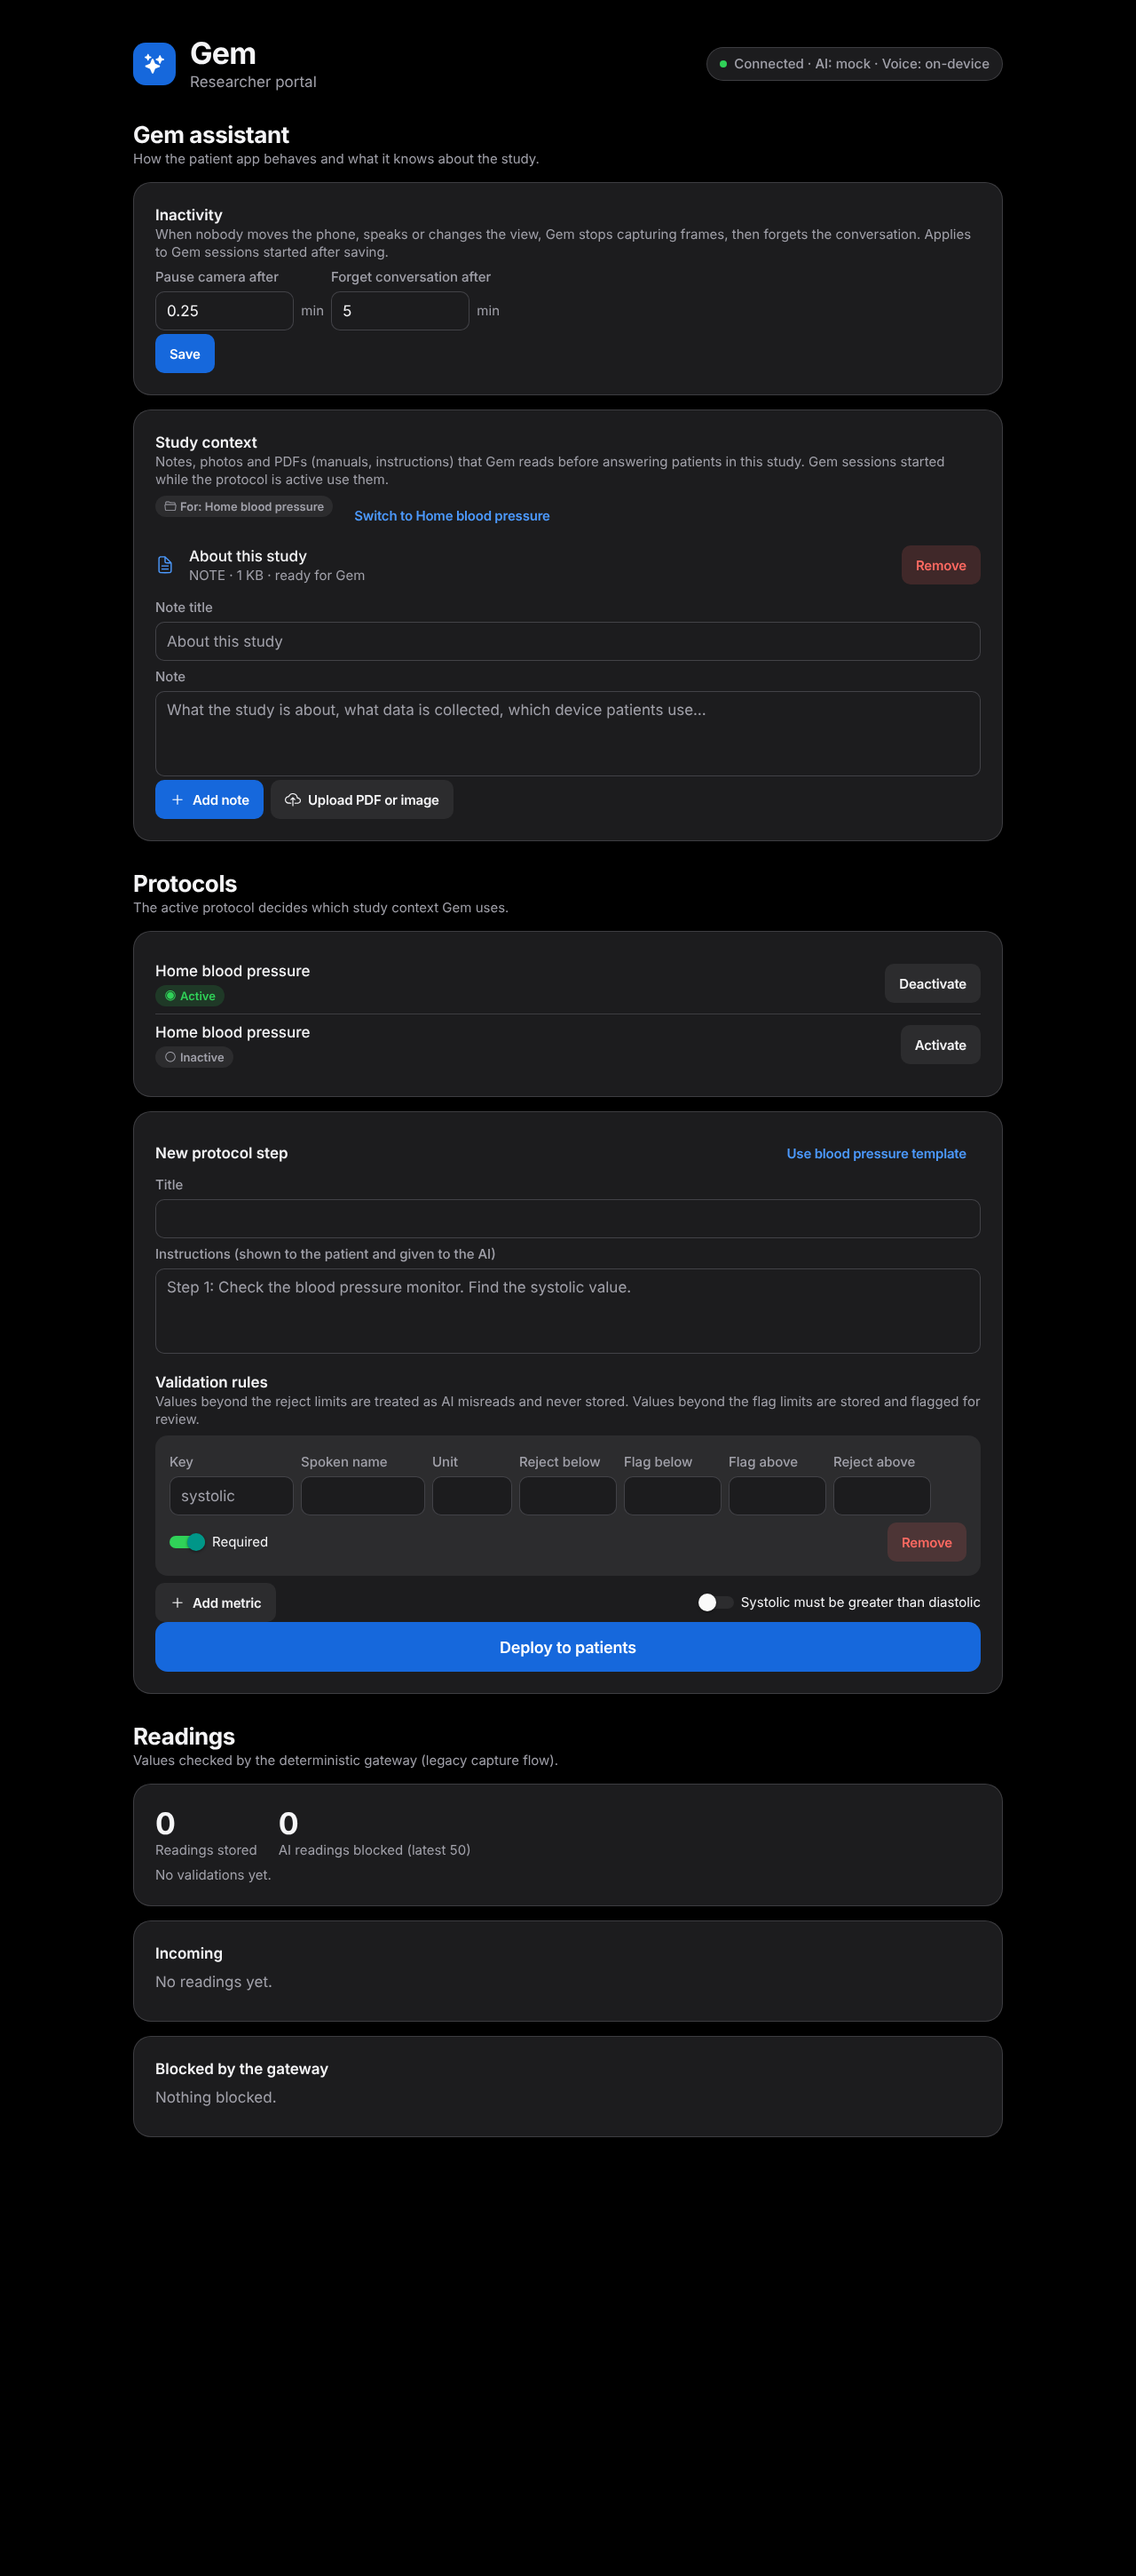
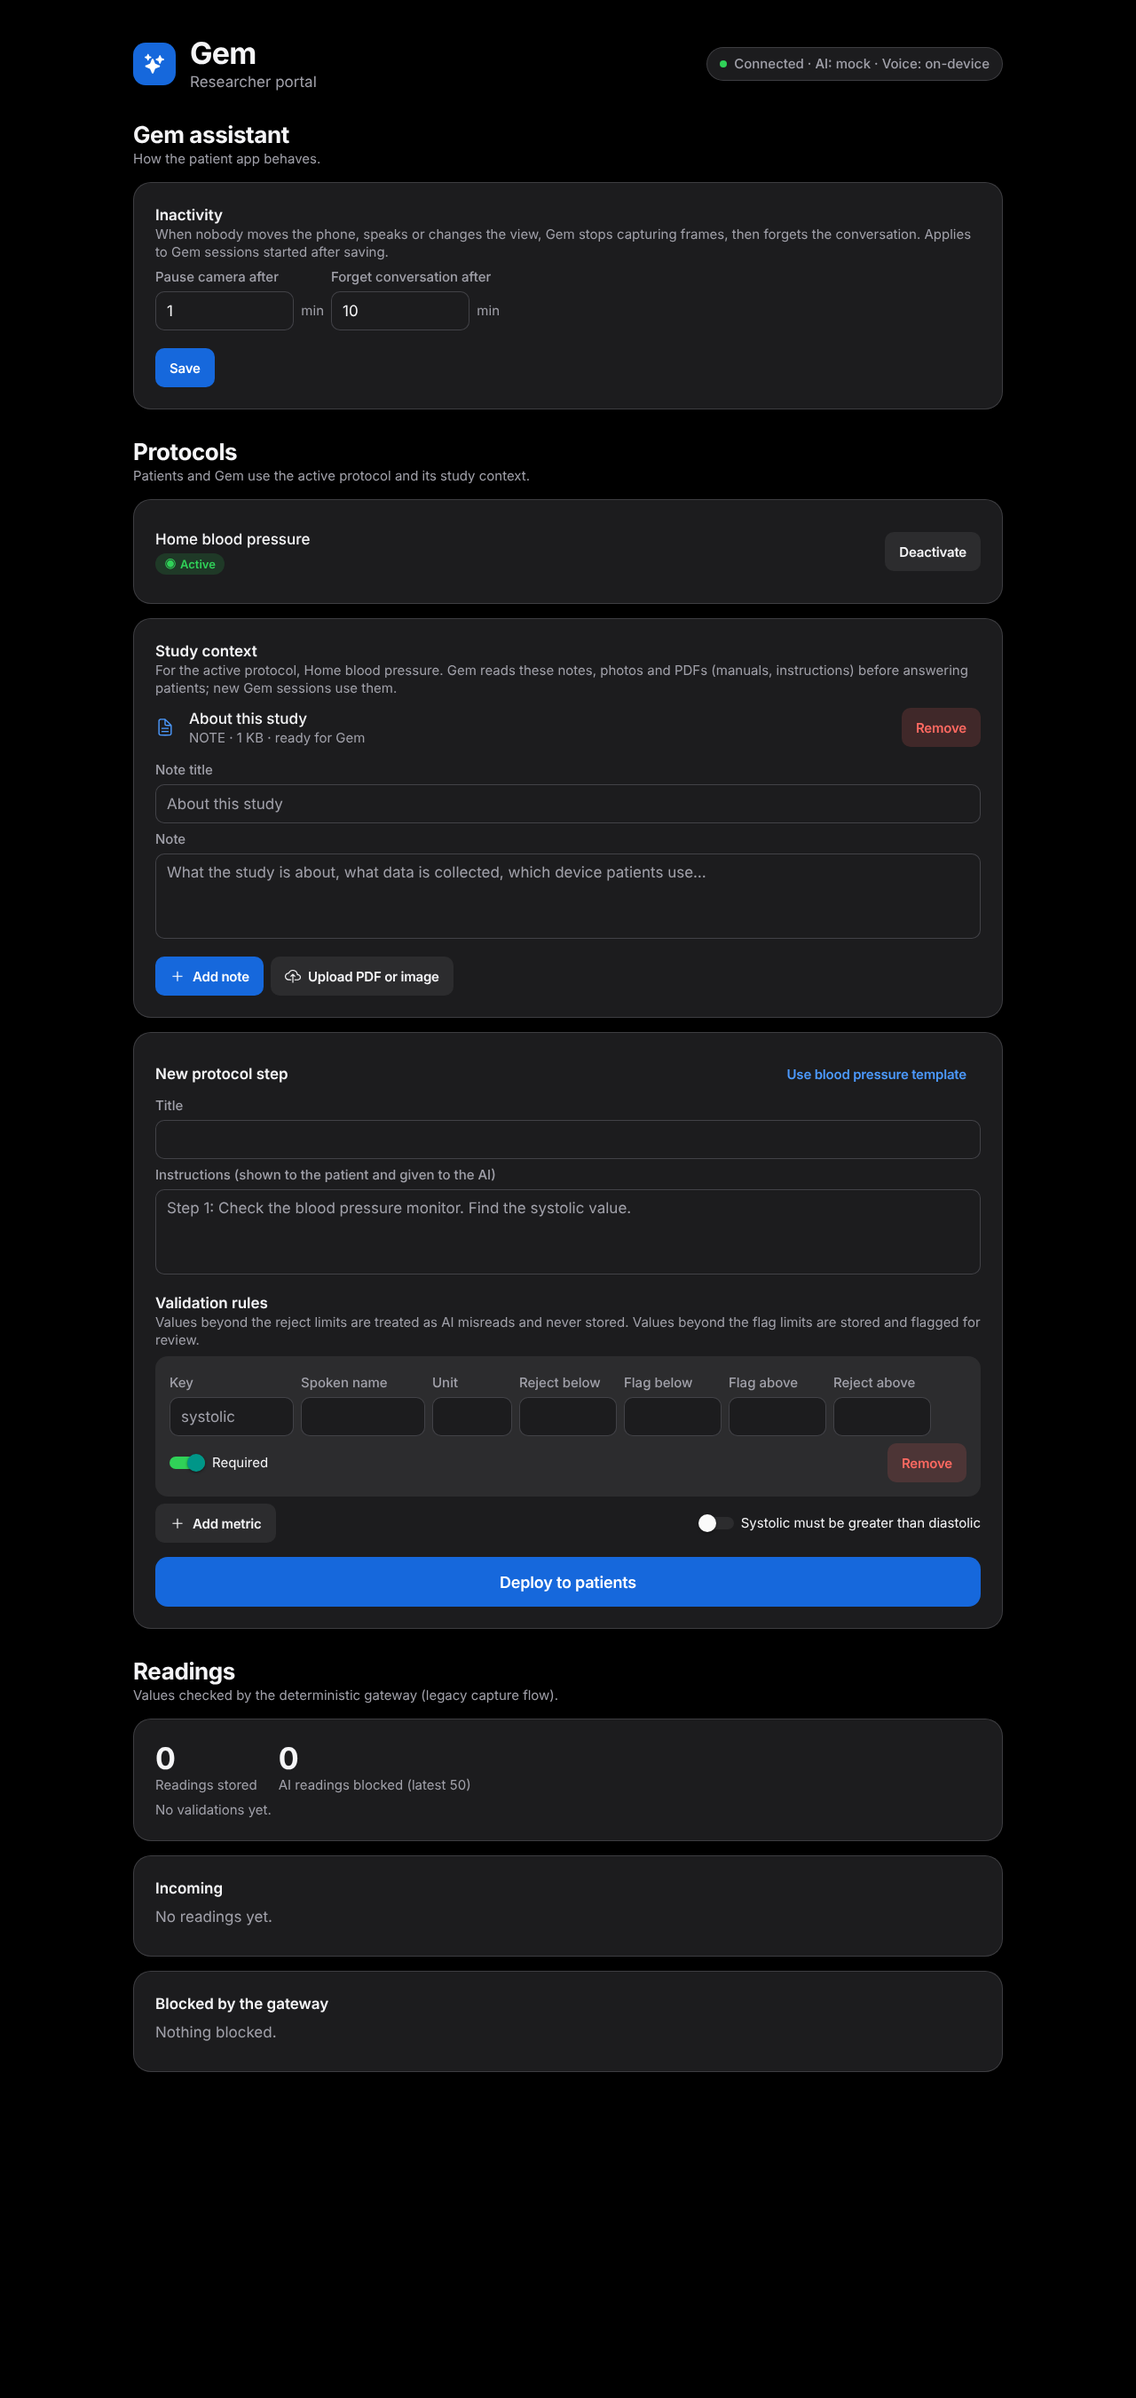
style: tie study context to the active protocol and space out portal actions

Changed region(s): [[0.0938, 0.4667, 0.9062, 0.8711], [0.0938, 0.0, 0.9062, 0.4356], [0.625, 0.0, 0.875, 0.0311]]

diff --git a/mobile/src/screens/portal/PortalScreen.tsx b/mobile/src/screens/portal/PortalScreen.tsx
@@ -69,7 +69,7 @@ export function PortalScreen() {
         </View>
 
         {/* ---------------- Gem assistant ---------------- */}
-        <SectionHeader title="Gem assistant" subtitle="How the patient app behaves and what it knows about the study." />
+        <SectionHeader title="Gem assistant" subtitle="How the patient app behaves." />
 
         <Card testID="portal-settings">
           <AppText variant="body" weight="600">
@@ -99,7 +99,7 @@ export function PortalScreen() {
               width={190}
             />
           </Row>
-          <Row>
+          <Row style={styles.actions}>
             <Button
               testID="portal-settings-save"
               label="Save"
@@ -120,31 +120,54 @@ export function PortalScreen() {
           </Row>
         </Card>
 
+        {/* ---------------- Protocols ---------------- */}
+        <SectionHeader title="Protocols" subtitle="Patients and Gem use the active protocol and its study context." />
+
+        <Card testID="portal-protocols">
+          {portal.protocols.length === 0 ? (
+            <AppText tone="muted" testID="portal-protocols-empty" style={styles.empty}>
+              No protocols yet.
+            </AppText>
+          ) : null}
+          {portal.protocols.map((p, i) => (
+            <View key={p.protocol_id}>
+              {i > 0 ? <Separator /> : null}
+              <View testID={`portal-protocol-${p.protocol_id}`} style={styles.listRow}>
+                <View style={{ flex: 1, gap: 4 }}>
+                  <AppText weight="500">{p.title}</AppText>
+                  <Pill label={p.is_active ? 'Active' : 'Inactive'} icon={p.is_active ? 'radio-button-on' : 'radio-button-off'} tone={p.is_active ? 'success' : 'neutral'} />
+                </View>
+                {p.is_active ? (
+                  <Button
+                    testID={`portal-deactivate-${p.protocol_id}`}
+                    label="Deactivate"
+                    variant="secondary"
+                    compact
+                    onPress={() => portal.deactivate(p.protocol_id)}
+                  />
+                ) : (
+                  <Button
+                    testID={`portal-activate-${p.protocol_id}`}
+                    label="Activate"
+                    variant="secondary"
+                    compact
+                    onPress={() => portal.activate(p.protocol_id)}
+                  />
+                )}
+              </View>
+            </View>
+          ))}
+        </Card>
+
         <Card testID="portal-documents">
           <AppText variant="body" weight="600">
             Study context
           </AppText>
-          <AppText variant="small" tone="muted">
-            Notes, photos and PDFs (manuals, instructions) that Gem reads before answering patients in this study. Gem
-            sessions started while the protocol is active use them.
-          </AppText>
           {portal.documentsProtocol ? (
             <>
-              <Row style={{ marginTop: theme.space.sm }}>
-                <Pill icon="folder-open-outline" label={`For: ${portal.documentsProtocol.title}`} testID="portal-documents-protocol" />
-                {portal.protocols
-                  .filter((p) => p.protocol_id !== portal.documentsProtocol?.protocol_id)
-                  .map((p) => (
-                    <Button
-                      key={p.protocol_id}
-                      testID={`portal-documents-select-${p.protocol_id}`}
-                      label={`Switch to ${p.title}`}
-                      variant="plain"
-                      compact
-                      onPress={() => portal.selectDocumentsProtocol(p.protocol_id)}
-                    />
-                  ))}
-              </Row>
+              <AppText variant="small" tone="muted" testID="portal-documents-protocol">
+                {`For the active protocol, ${portal.documentsProtocol.title}. Gem reads these notes, photos and PDFs (manuals, instructions) before answering patients; new Gem sessions use them.`}
+              </AppText>
               <View style={styles.list}>
                 {portal.documents.length === 0 ? (
                   <AppText tone="muted" testID="portal-documents-empty" style={styles.empty}>
@@ -195,7 +218,7 @@ export function PortalScreen() {
                 multiline
                 placeholder="What the study is about, what data is collected, which device patients use…"
               />
-              <Row>
+              <Row style={styles.actions}>
                 <Button testID="portal-note-add" label="Add note" icon="add" compact onPress={portal.addNote} loading={portal.documentsBusy} />
                 <Button
                   testID="portal-upload-file"
@@ -210,7 +233,8 @@ export function PortalScreen() {
             </>
           ) : (
             <AppText tone="muted" testID="portal-documents-no-protocol" style={styles.empty}>
-              Deploy a protocol first, then add study documents to it.
+              Activate a protocol to add study documents. Gem reads them (notes, photos, PDF manuals) before
+              answering patients.
             </AppText>
           )}
           {portal.documentsError ? (
@@ -218,45 +242,6 @@ export function PortalScreen() {
               {portal.documentsError}
             </AppText>
           ) : null}
-        </Card>
-
-        {/* ---------------- Protocols ---------------- */}
-        <SectionHeader title="Protocols" subtitle="The active protocol decides which study context Gem uses." />
-
-        <Card testID="portal-protocols">
-          {portal.protocols.length === 0 ? (
-            <AppText tone="muted" testID="portal-protocols-empty" style={styles.empty}>
-              No protocols yet.
-            </AppText>
-          ) : null}
-          {portal.protocols.map((p, i) => (
-            <View key={p.protocol_id}>
-              {i > 0 ? <Separator /> : null}
-              <View testID={`portal-protocol-${p.protocol_id}`} style={styles.listRow}>
-                <View style={{ flex: 1, gap: 4 }}>
-                  <AppText weight="500">{p.title}</AppText>
-                  <Pill label={p.is_active ? 'Active' : 'Inactive'} icon={p.is_active ? 'radio-button-on' : 'radio-button-off'} tone={p.is_active ? 'success' : 'neutral'} />
-                </View>
-                {p.is_active ? (
-                  <Button
-                    testID={`portal-deactivate-${p.protocol_id}`}
-                    label="Deactivate"
-                    variant="secondary"
-                    compact
-                    onPress={() => portal.deactivate(p.protocol_id)}
-                  />
-                ) : (
-                  <Button
-                    testID={`portal-activate-${p.protocol_id}`}
-                    label="Activate"
-                    variant="secondary"
-                    compact
-                    onPress={() => portal.activate(p.protocol_id)}
-                  />
-                )}
-              </View>
-            </View>
-          ))}
         </Card>
 
         <Card testID="portal-editor">
@@ -335,7 +320,7 @@ export function PortalScreen() {
               {portal.deployMessage}
             </AppText>
           ) : null}
-          <Button testID="portal-deploy" label="Deploy to patients" onPress={portal.deploy} loading={portal.deploying} />
+          <Button testID="portal-deploy" label="Deploy to patients" onPress={portal.deploy} loading={portal.deploying} style={styles.actions} />
         </Card>
 
         {/* ---------------- Gateway ---------------- */}
@@ -454,6 +439,8 @@ const styles = StyleSheet.create({
   connectionDot: { width: 8, height: 8, borderRadius: 4 },
   fields: { alignItems: 'flex-end', marginTop: theme.space.xs },
   list: { marginVertical: theme.space.xs },
+  /** The closing (blue) action of a card gets room above it. */
+  actions: { marginTop: theme.space.md },
   listRow: { flexDirection: 'row', alignItems: 'center', gap: theme.space.md, paddingVertical: theme.space.sm },
   separator: { height: StyleSheet.hairlineWidth },
   empty: { paddingVertical: theme.space.sm },

diff --git a/mobile/src/hooks/usePortal.ts b/mobile/src/hooks/usePortal.ts
@@ -35,7 +35,7 @@ export interface PortalController {
   setPurgeMinutes: (v: string) => void;
   saveSettings: () => void;
 
-  /** Protocol whose study documents are shown (defaults to the active one). */
+  /** The active protocol: study documents always belong to it (null when none is active). */
   documentsProtocol: Protocol | null;
   documents: StudyDocument[];
   noteTitle: string;
@@ -44,7 +44,6 @@ export interface PortalController {
   documentsError: string | null;
   setNoteTitle: (v: string) => void;
   setNoteText: (v: string) => void;
-  selectDocumentsProtocol: (protocolId: string) => void;
   addNote: () => void;
   uploadFile: () => void;
   deleteDocument: (docId: string) => void;
@@ -85,7 +84,6 @@ export function usePortal(): PortalController {
   const [deploying, setDeploying] = useState(false);
   const [deployMessage, setDeployMessage] = useState<string | null>(null);
   const mounted = useRef(true);
-  const [selectedDocsProtocol, setSelectedDocsProtocol] = useState<string | null>(null);
   const [idleMinutes, setIdleMinutes] = useState('');
   const [purgeMinutes, setPurgeMinutes] = useState('');
   const [settingsSaving, setSettingsSaving] = useState(false);
@@ -108,8 +106,7 @@ export function usePortal(): PortalController {
   const [documentsBusy, setDocumentsBusy] = useState(false);
   const [documentsError, setDocumentsError] = useState<string | null>(null);
 
-  const documentsProtocol =
-    protocols.find((p) => p.protocol_id === selectedDocsProtocol) ?? protocols.find((p) => p.is_active) ?? null;
+  const documentsProtocol = protocols.find((p) => p.is_active) ?? null;
   const docsProtocolId = documentsProtocol?.protocol_id ?? null;
 
   const loadDocuments = useCallback((protocolId: string | null) => {
@@ -268,7 +265,6 @@ export function usePortal(): PortalController {
     documentsError,
     setNoteTitle,
     setNoteText,
-    selectDocumentsProtocol: setSelectedDocsProtocol,
     addNote: () => {
       if (!noteTitle.trim() || !noteText.trim()) {
         setDocumentsError('Give the note a title and some text.');

diff --git a/mobile/src/__tests__/PortalScreen.contract.test.tsx b/mobile/src/__tests__/PortalScreen.contract.test.tsx
@@ -46,7 +46,6 @@ function controller(overrides: Partial<PortalController> = {}): PortalController
     documentsError: null,
     setNoteTitle: jest.fn(),
     setNoteText: jest.fn(),
-    selectDocumentsProtocol: jest.fn(),
     addNote: jest.fn(),
     uploadFile: jest.fn(),
     deleteDocument: jest.fn(),
@@ -136,7 +135,7 @@ describe('PortalScreen contract', () => {
     expect(screen.getByTestId('portal-latency')).toHaveTextContent(/p95 3 µs/);
   });
 
-  it('study documents: list, add note, upload, remove, switch protocol', async () => {
+  it('study documents: list, add note, upload, remove', async () => {
     const ctl = await renderWith();
     expect(screen.getByTestId('portal-documents-protocol')).toHaveTextContent(/Home blood pressure/);
     expect(screen.getByTestId('portal-document-d-1')).toHaveTextContent(/About the study/);
@@ -146,13 +145,13 @@ describe('PortalScreen contract', () => {
     await fireEvent.press(screen.getByTestId('portal-note-add'));
     await fireEvent.press(screen.getByTestId('portal-upload-file'));
     await fireEvent.press(screen.getByTestId('portal-document-delete-d-2'));
-    await fireEvent.press(screen.getByTestId('portal-documents-select-p-0'));
     expect(ctl.setNoteTitle).toHaveBeenCalledWith('Device');
     expect(ctl.setNoteText).toHaveBeenCalledWith('Omron M7');
     expect(ctl.addNote).toHaveBeenCalled();
     expect(ctl.uploadFile).toHaveBeenCalled();
     expect(ctl.deleteDocument).toHaveBeenCalledWith('d-2');
-    expect(ctl.selectDocumentsProtocol).toHaveBeenCalledWith('p-0');
+    // Documents always belong to the active protocol: no separate protocol switcher.
+    expect(screen.queryByTestId('portal-documents-select-p-0')).toBeNull();
   });
 
   it('study documents: empty, error, and no-protocol states', async () => {

diff --git a/mobile/src/__tests__/usePortalDocuments.test.tsx b/mobile/src/__tests__/usePortalDocuments.test.tsx
@@ -103,6 +103,15 @@ describe('usePortal study documents', () => {
   });
 });
 
+it('documents follow the active protocol; none when no protocol is active', async () => {
+  const { protocol } = jest.requireActual('../testing/fixtures');
+  (api.listProtocols as jest.Mock).mockResolvedValue([{ ...protocol, is_active: false }]);
+  const hook = await renderHook(() => usePortal());
+  await waitFor(() => expect(hook.result.current.protocols).toHaveLength(1));
+  expect(hook.result.current.documentsProtocol).toBeNull();
+  (api.listProtocols as jest.Mock).mockResolvedValue([protocol]);
+});
+
 describe('usePortal Gem inactivity settings', () => {
   it('loads the saved timings in minutes', async () => {
     const { result } = await setup();

diff --git a/docs/UI_CONTRACT.md b/docs/UI_CONTRACT.md
@@ -117,7 +117,7 @@ Hook: `usePortal()` → see `PortalController` in `src/hooks/usePortal.ts`.
 | Metric row *i* | `portal-metric-{i}`, `portal-metric-{i}-name`, `-label`, `-unit`, `-hard_min`, `-min`, `-max`, `-hard_max`, `-required`, `-remove` | `draft.rules.metrics[i]` | `updateMetric(i, field, value)`, `removeMetric(i)` |
 | Form feedback | `portal-form-errors` (when `formErrors.length`), `portal-deploy-message` (when set) | | |
 | Protocols | `portal-protocols`, `portal-protocol-{id}`, `portal-activate-{id}` / `portal-deactivate-{id}`, `portal-protocols-empty` | `protocols` | `activate(id)`, `deactivate(id)` |
-| Study documents | `portal-documents`, `portal-documents-protocol`, `portal-documents-select-{id}` (other protocols), `portal-document-{doc_id}`, `portal-document-delete-{doc_id}`, `portal-documents-empty`, `portal-note-title`, `portal-note-text`, `portal-note-add`, `portal-upload-file`, `portal-documents-error`, `portal-documents-no-protocol` | `documentsProtocol`, `documents[]` (kind, title, size, `uploaded_to_gemini`), `noteTitle`, `noteText`, `documentsBusy`, `documentsError` | `setNoteTitle`, `setNoteText`, `addNote`, `uploadFile` (opens the file picker), `deleteDocument(id)`, `selectDocumentsProtocol(id)` |
+| Study documents (always the active protocol's; shown under Protocols) | `portal-documents`, `portal-documents-protocol`, `portal-document-{doc_id}`, `portal-document-delete-{doc_id}`, `portal-documents-empty`, `portal-note-title`, `portal-note-text`, `portal-note-add`, `portal-upload-file`, `portal-documents-error`, `portal-documents-no-protocol` | `documentsProtocol`, `documents[]` (kind, title, size, `uploaded_to_gemini`), `noteTitle`, `noteText`, `documentsBusy`, `documentsError` | `setNoteTitle`, `setNoteText`, `addNote`, `uploadFile` (opens the file picker), `deleteDocument(id)` |
 | Gateway | `portal-gateway-metrics`, `portal-latency` | `metrics.validation.{p50_us,p95_us,p99_us,count}`, `metrics.events_stored`, `rejections.length` | — |
 | Readings | `portal-events`, `portal-event-{event_id}`, `portal-events-empty` | `events[]` (status, readings, time, patient, `validation_ns`) | — |
 | Blocked | `portal-rejections`, `portal-rejection-{rejection_id}`, `portal-rejections-empty` | `rejections[]` (errors, readings, time) | — |

diff --git a/docs/DECISIONS.md b/docs/DECISIONS.md
@@ -61,3 +61,4 @@ Choices made without asking, and why. Newest last.
 | 55 | **No haptics** in the Gem app. | iOS suppresses haptics while the audio session is recording, and Gem's mic is always on; a vibration could also be picked up by the VAD. |
 | 56 | **Light/dark mode follows the system setting** (no in-app switch): `useTheme()` picks a light or dark palette from `useColorScheme()`; `app.json` `userInterfaceStyle: automatic`. Dark palette uses Apple's dark grouped colors, with a lighter `primaryText` (#4C9AFF) for links/icons since the button blue is too dark as text on dark surfaces. Camera chrome is dark in both modes; the status bar stays light over the camera. | Requested. Following the system is the platform convention and needs no stored preference; all text colors are tested for WCAG AA in both palettes. |
 | 57 | **ElevenLabs synthesis starts when the turn is answered**, as a background task on the server, instead of when the phone requests `/speech`. The endpoint awaits that shared task (shielded from client disconnects) and retries a failed one. | Gem's voice is made while the image is drawn and the answer travels to the phone, which shortens the gap between the text appearing and hearing it. Costs nothing extra: the app fetches every answer's audio anyway. |
+| 58 | **Study documents are edited only for the active protocol** (the "For: / Switch to" protocol picker was removed) and the card sits under Protocols. | Researcher feedback: the picker looked like a second Activate button. Activate already decides what patients and Gem use; to prepare documents for another protocol, activate it first. |
